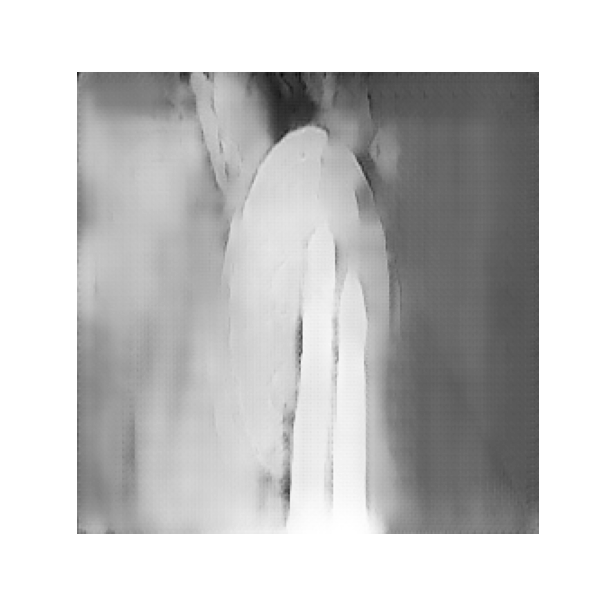
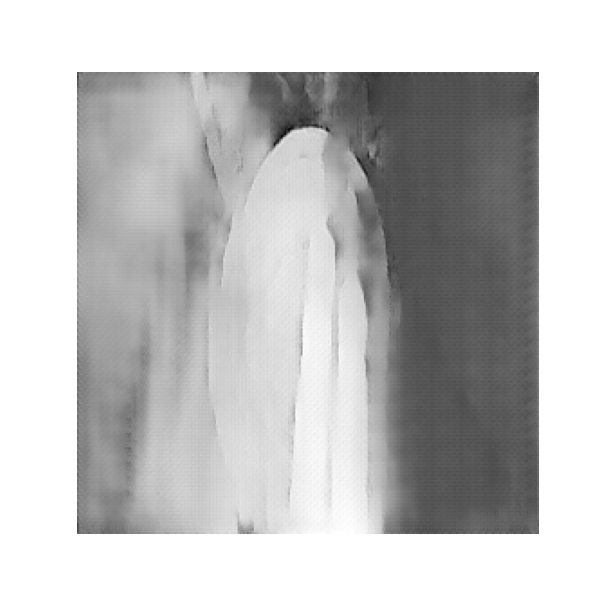
80k iterations

diff --git a/pix2pix.py b/pix2pix.py
@@ -377,7 +377,7 @@ def fit(train_ds, test_ds, steps):
       checkpoint.save(file_prefix=checkpoint_prefix)
 
 
-fit(train_lx_rx_y, test_lx_rx_y, steps=50000)
+fit(train_lx_rx_y, test_lx_rx_y, steps=80000)
 example_input, example_target = next(iter(test_lx_rx_y.take(1)))
 
 plt.figure(figsize=(6, 6))
